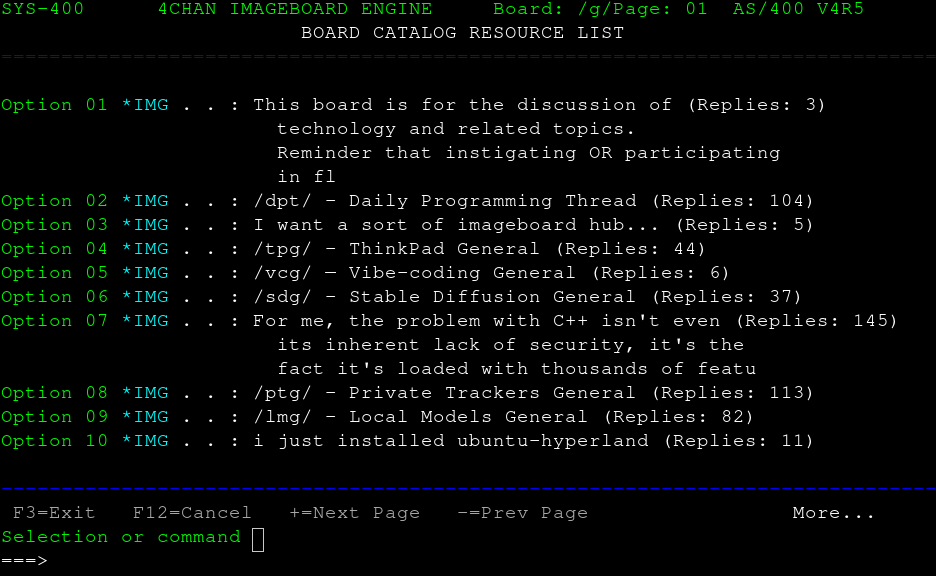
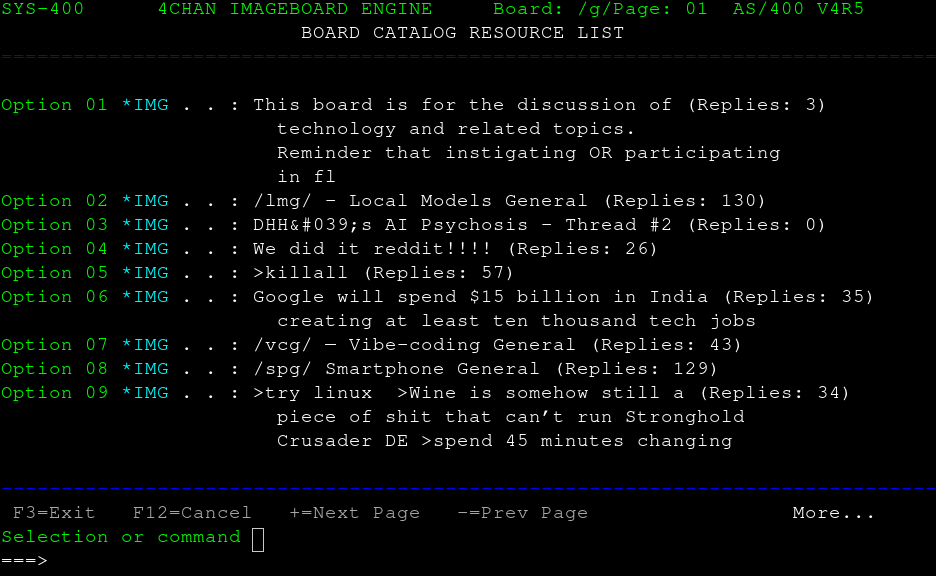
Draw full QR: extend media pane to row 21 so the last module row is never dropped

diff --git a/4chanas400.py b/4chanas400.py
@@ -213,13 +213,16 @@ async def render_split_media_pane(img_struct, board, writer, start_row=6):
         qr_lines.append(line_str)
 
     current_row = start_row
-    for clear_row in range(start_row, 21):
+    # Rows 6..21 (inclusive) are the pane's drawable area: row 21 is free in
+    # MEDIA_PANE (the footer is not drawn here), and both the DL receipt
+    # (rows 21-23) and the return-to-list redraw (\x1b[2J) overwrite it safely.
+    for clear_row in range(start_row, 22):
         writer.write(f"\x1b[{clear_row};1H\x1b[K")
-        
+
     max_lines = max(len(thumb_lines), len(qr_lines))
-    
+
     for i in range(max_lines):
-        if current_row >= 21: break
+        if current_row >= 22: break
         
         t_part = thumb_lines[i] if i < len(thumb_lines) else " " * 30
         q_part = qr_lines[i] if i < len(qr_lines) else ""
